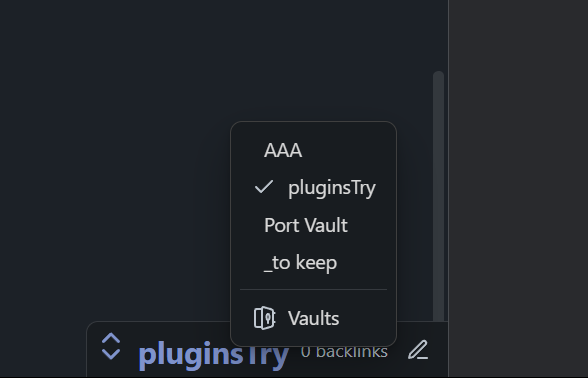
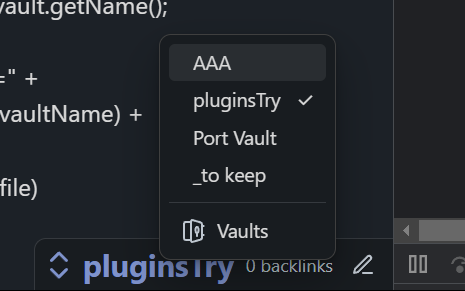
1

diff --git a/src/menu.ts b/src/menu.ts
@@ -4,25 +4,25 @@ import { vaultPaths } from "./getVaults";
 
 addIcon("buttonSVG", vaults_picker);
 
-
 export function vaultsMenu(evt: MouseEvent) {
     const menu = new Menu()
     const currentVaultPath = this.app.vault.adapter.basePath;
 
     vaultPaths.forEach((vaultPath) => {
         const vaultName = getName(vaultPath);
+        const title = currentVaultPath === vaultPath ? `${vaultName}\u00A0\u00A0\u00A0\u2713` : vaultName;
+
         menu.addItem((item) => {
             item
-                .setTitle(vaultName)
-                .setIcon(currentVaultPath === vaultPath ? "checkmark" : "")
+                .setTitle(title)
                 .onClick(async () => {
                     if (currentVaultPath !== vaultPath) {
                         window.open(`obsidian://open?vault=${encodeURIComponent(vaultName)}`
                         );
                     }
                 })
-        });
-    });
+        })
+    })
 
     menu.addSeparator();
 

diff --git a/src/main.ts b/src/main.ts
@@ -17,9 +17,9 @@ export default class StatusBarVaultName extends Plugin {
 		const vaultName = this.app.vault.getName();
 		const statusBar = document.querySelector('.status-bar')
 		this.title = document.createElement('div');
+		statusBar?.prepend(this.title)
 		this.title.innerHTML = `${chevrons} ${vaultName}`;
 		this.title.classList.add("status-bar-vault-name");
-		statusBar?.prepend(this.title)
 		this.updateTitleStyle();
 		this.title.addEventListener('click', vaultsMenu.bind(this));
 	}
